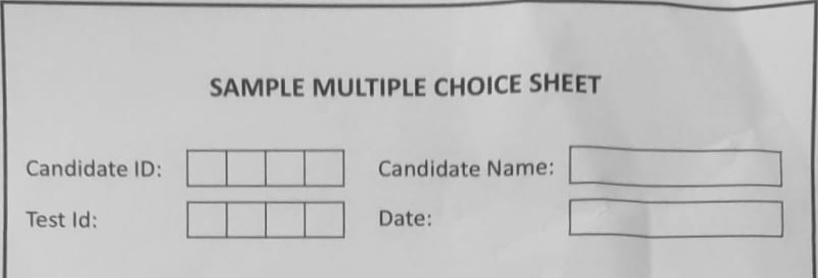
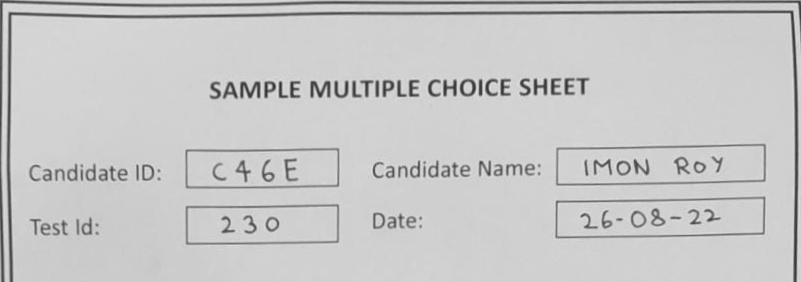
Updated text recognition

Changed region(s): [[0.0, 0.0, 1.0, 1.0], [0.2497, 0.259, 0.7491, 0.3741], [0.2185, 0.7194, 0.5306, 0.8921]]

diff --git a/grader_app/imageprocessor.py b/grader_app/imageprocessor.py
@@ -4,7 +4,6 @@ import numpy as np
 import imutils
 from imutils import contours
 import cv2
-import requests
 import easyocr
 
 # ------------Class for extracting answers-----------------
@@ -26,6 +25,7 @@ class Sheet:
         self.warped = self.warpImage(edged)
         thresh = self.threshed(self.warped, 50)
         # self.show(thresh, "THresh")
+        self.text_boxes = self.getTextArea(self.warped)
         questionCnts = self.getBoxContours(thresh)
         self.box_contour_img = self.warped.copy()
         cv2.drawContours(self.box_contour_img, questionCnts, -1, (0, 255, 0), 2)
@@ -188,7 +188,7 @@ class Sheet:
         cm = img.copy()
         for (i, c) in enumerate(mcf):
             cm = contours.label_contour(cm, c, i)
-        # self.show(cm, "CMMM")
+        self.show(cm, "CMMM")
 
     # ----------Retrieves final list of answers------------------
     def getAnswers(self, box, mcf, flag, answerlist):
@@ -199,8 +199,8 @@ class Sheet:
             ques_no = 15
         res = np.zeros(box.shape[0:2], dtype="uint8")
         # print("length",len(mcf))
-        # mcf = contours.sort_contours(mcf,method="top-to-bottom")[0]
-        # self.labelImage(self.crop, mcf)
+        mcf = contours.sort_contours(mcf,method="top-to-bottom")[0]
+        #self.labelImage(self.crop, mcf)
         for i in range(len(mcf)):
             m = np.zeros(self.crop.shape[0:2], dtype="uint8")
             # print(box.shape)
@@ -217,13 +217,27 @@ class Sheet:
                 highest = 0
             if total > highest and total > 700:
                 # print(total,"x:",mcf[i][0][0])
-                print(ques_no - i // 4, highest, total, count_columns)
+                #print(ques_no - i // 4, highest, total, count_columns)
                 # if(ques_no-i//4==5):
                 # self.show(m, str(count_columns))
                 highest = total
-                answerlist[ques_no - i // 4] = 4 - count_columns  # ,count_columns]
+                answerlist[ques_no - i // 4] = 3 - count_columns  # ,count_columns]
             count_columns += 1
         return answerlist
+
+    def insertionSort(self, cnts):
+        for i in range(1, len(cnts)):
+            key = cnts[i:i+1]
+            j = i-1
+            key_box = cv2.boundingRect(key)
+            j_box = cv2.boundingRect(cnts[j:j+1])
+            while j >=0 and (abs(key_box[1]-j_box[1])>50 and key_box[1]<j_box[1]) or (abs(key_box[1]-j_box[1]<50 and key_box[0]<j_box[0])):
+                    cnts[j+1] = cnts[j]
+                    j -= 1
+                    j_box = cv2.boundingRect(cnts[j:j+1])
+
+            cnts[j+1] = key
+            key_box = cv2.boundingRect(key)
 
     def getTextArea(self, img):
         x = img.shape[0]
@@ -232,8 +246,35 @@ class Sheet:
         cv2.imwrite("image_processing/test.jpeg", img)
         #self.show(img, "WORKS?")
         #img = cv2.cvtColor(img, cv2.COLOR_BGR2GRAY)
-        thres = cv2.threshold(img, 180, 255, cv2.THRESH_BINARY_INV)[1]
-        self.show(thres, "Thres")
+        thres = cv2.threshold(img, 190, 255, cv2.THRESH_BINARY_INV)[1]
+        #self.show(thres, "Thres")
+        cnts = cv2.findContours(thres, cv2.RETR_EXTERNAL, cv2.CHAIN_APPROX_SIMPLE)[0]
+        final_c=[]
+        for c in cnts:
+            (x,y,w,h) = cv2.boundingRect(c)
+            if(w>50 and h<0.1*img.shape[1]):
+                #print(h/img.shape[1])
+                final_c.append(c)
+                
+        # print(len(final_c))
+        # copy = img.copy()
+        # cv2.drawContours(copy, final_c, -1, (0,255,0), 2)
+        # self.show(copy, "contours")
+        #print(self.getText(thres))
+        # self.insertionSort(final_c)
+
+        final_c = contours.sort_contours(final_c, method="top-to-bottom")[0]
+        text_inputs = []
+        for i in range(len(final_c)):
+            mask = np.zeros(thres.shape, dtype='uint8')
+            cv2.drawContours(mask, final_c[i:i+1], -1, 255, -1)
+            text_box = cv2.bitwise_and(thres, thres, mask=mask)
+            #self.show(text_box, "text"+str(i))
+            text_inputs.append(self.getText(text_box))
+        self.student_id = text_inputs[1]
+        return text_inputs
+
+        
 
 
     def getText(self, img):
@@ -244,18 +285,24 @@ class Sheet:
         # r_easy_ocr=reader.readtext(thresh,detail=0)
         # return(r_easy_ocr)
         reader = easyocr.Reader(['en'],gpu = False) # load once only in memory.
-        gray = cv2.cvtColor(img, cv2.COLOR_BGR2GRAY)
-        thresh = cv2.threshold(gray, 130, 255, cv2.THRESH_BINARY_INV)[1]
+        #gray = cv2.cvtColor(img, cv2.COLOR_BGR2GRAY)
+        #thresh = cv2.threshold(gray, 130, 255, cv2.THRESH_BINARY_INV)[1]
         sharpen_kernel = np.array([[-1,-1,-1], [-1,9,-1], [-1,-1,-1]])
-        sharpen = cv2.filter2D(thresh, -1, sharpen_kernel)
+        sharpen = cv2.filter2D(img, -1, sharpen_kernel)
         #cv2.imshow("thres", sharpen)
-        r_easy_ocr=reader.readtext(sharpen,detail=0)
+        r_easy_ocr=reader.readtext(img, detail=0)
         return r_easy_ocr
 
 
+    def getSortedContours(self,cnts):
+
+        pass
+
 if __name__ == ("__main__"):
-    x = Sheet("image_processing/sample_sheet#6.jpeg")
-    print(x.answerlist)
+    x = Sheet("image_processing/sample_sheet#8.jpeg")
+    #x = cv2.cvtColor()
+    #print(x.answerlist)
     #print(x.getText(x.original))
-    x.getTextArea(x.warped)
+    print(x.answerlist)
+    print(x.text_boxes)
     cv2.waitKey(0)
